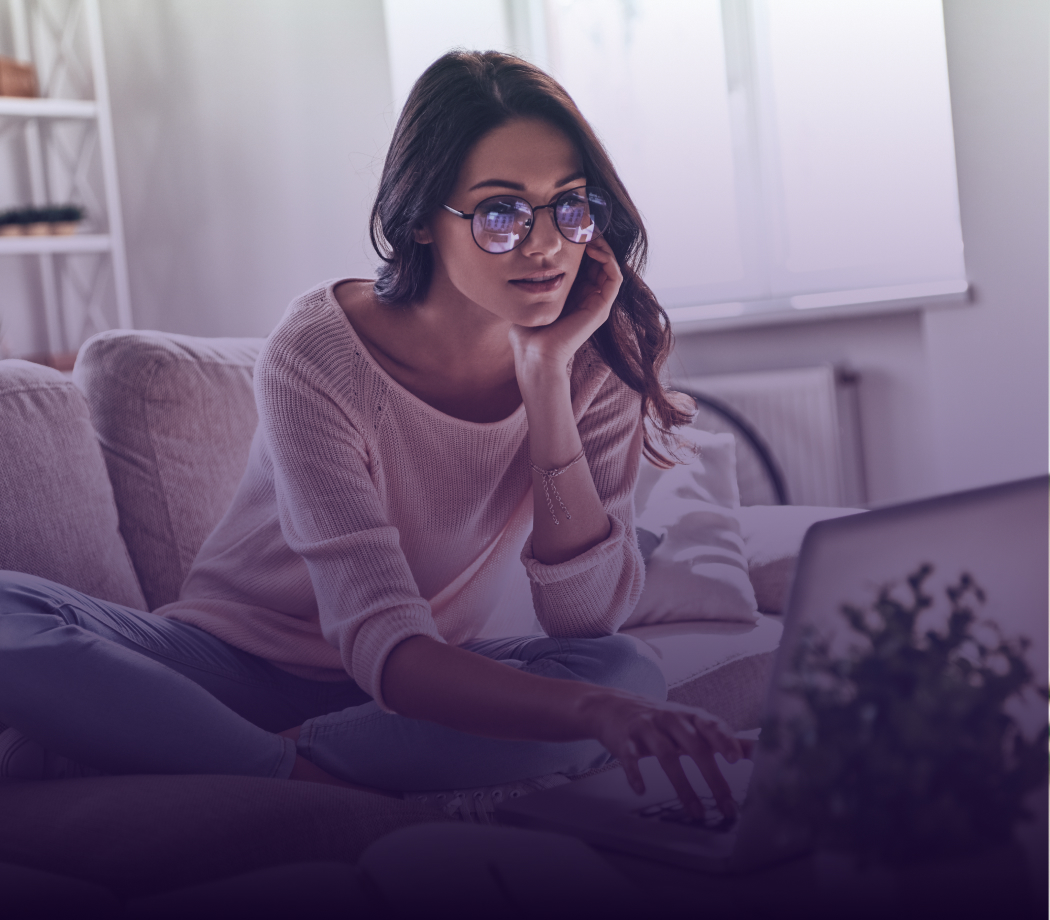
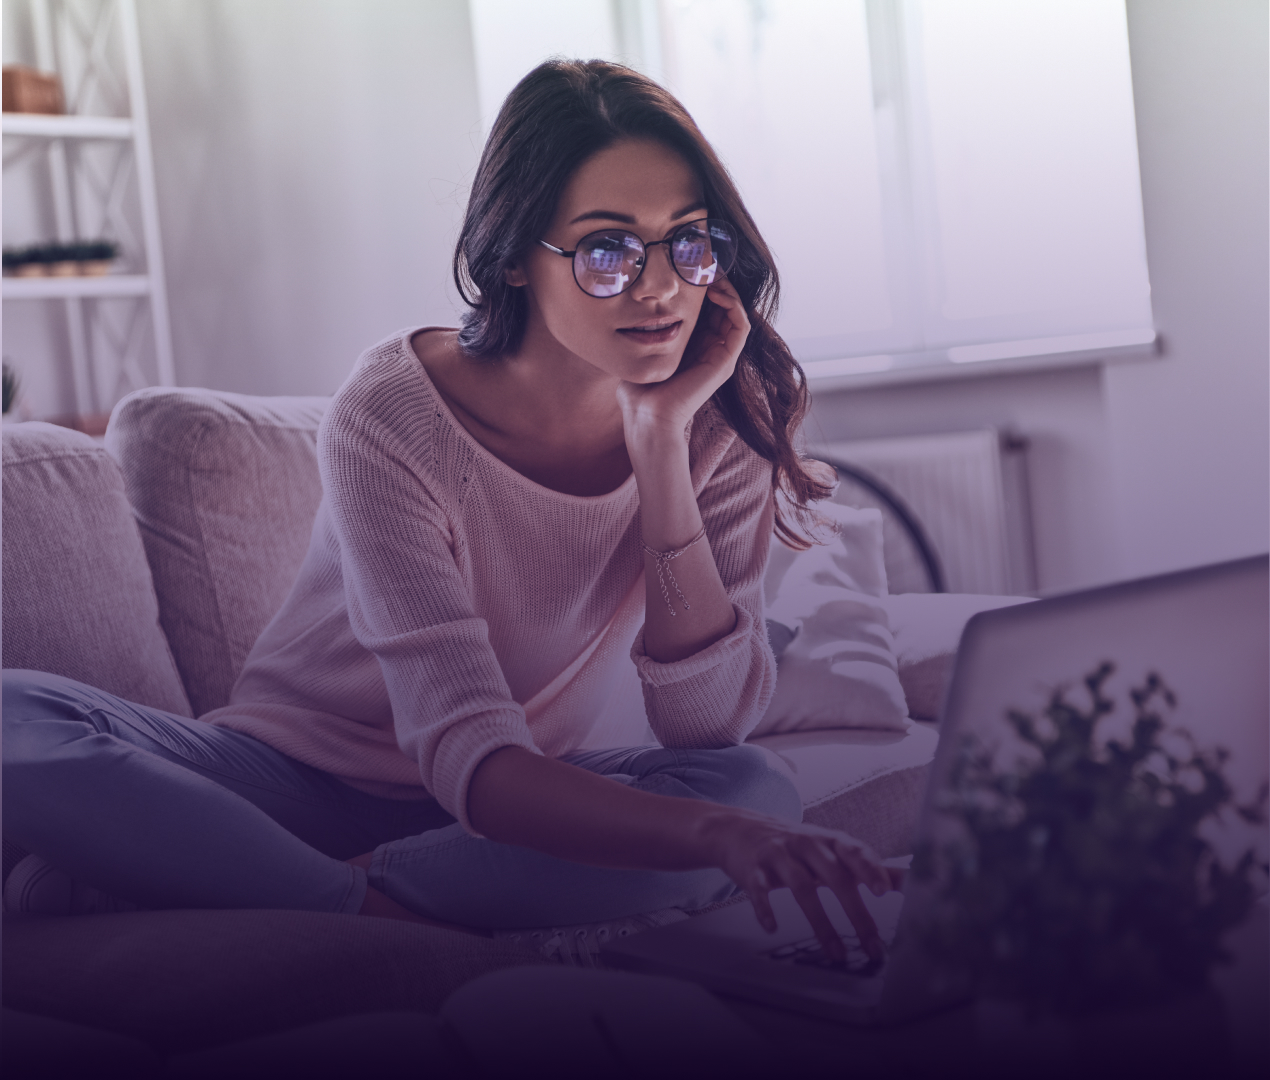
Adicionando o component Image do NextJS

diff --git a/src/styles/pages/Home.ts b/src/styles/pages/Home.ts
@@ -1,8 +1,5 @@
 import styled from 'styled-components'
 
-import imgWomanDesktop from '../../assets/woman-desktop.jpg'
-import imgWomanMobile from '../../assets/woman-mobile.jpg'
-
 export const Container = styled.main`
   display: grid;
   grid-template-columns: repeat(12, 1fr);
@@ -16,6 +13,7 @@ export const Container = styled.main`
 export const SectionImage = styled.section`
   min-height: 100vh;
   grid-column: 1 / 8;
+  position: relative;
 
   @media (max-width: 768px) {
     grid-column: 1 / 6;
@@ -24,17 +22,6 @@ export const SectionImage = styled.section`
   @media (max-width: 375px) {
     min-height: 100vh;
     grid-column: 1 / 2;
-  }
-`
-
-export const Img = styled.img`
-  width: 100%;
-  height: 101%;
-  background: url(${imgWomanDesktop}) no-repeat center center;
-  background-size: cover;
-
-  @media (max-width: 375px) {
-    background: url(${imgWomanMobile}) no-repeat;
   }
 `
 

diff --git a/src/pages/index.tsx b/src/pages/index.tsx
@@ -1,18 +1,15 @@
 import React from 'react'
+import Image from 'next/image'
 import GlobalStyle from '../styles/GlobalStyle'
-import {
-  Container,
-  SectionSignIn,
-  SectionImage,
-  Img
-} from '../styles/pages/Home'
+import { Container, SectionSignIn, SectionImage } from '../styles/pages/Home'
 import SignIn from '../components/SignIn'
+import womanFull from '../assets/woman-desktop.jpg'
 
 const Home: React.FC = () => {
   return (
     <Container>
       <SectionImage>
-        <Img />
+        <Image src={womanFull} layout="fill" objectFit="cover" />
       </SectionImage>
 
       <SectionSignIn>
